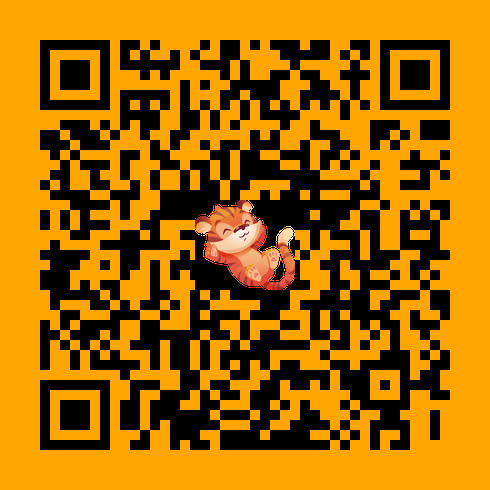
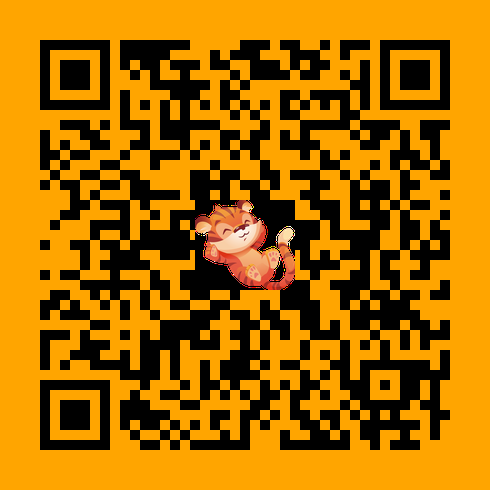
creado el anuncio y el qr

Changed region(s): [[0.0612, 0.0612, 0.9184, 0.9184], [0.8265, 0.8571, 0.8571, 0.9184]]

diff --git a/templates/visualizar_qr.html b/templates/visualizar_qr.html
@@ -41,7 +41,12 @@
                     </div>
                 </div>
         </header>
-    <div class="flex justify-center align-center w-full mt-32">
+    <div class="text-center text-xl text-white font-bold mt-10">
+        <p class="text-3xl m-1"> Conectate a la red y escanea el codigo QR para una sorpresa! </p>
+        <p>Red: talleres-bootcamp </p>
+        <p> Contraseña: talleres2023 </p>
+    </div>
+    <div class="flex justify-center align-center w-full mt-10">
         <div class="mx-auto my-auto ">
             <img src="{{imagen}}" alt="qr">
         </div>

diff --git a/app.py b/app.py
@@ -105,11 +105,11 @@ def qr_generator(url):
 
 @app.route('/generar_qr')
 def generar_qr(): 
-    ip = '192.168.100.130:8080'
-    url = 'http://'+ip+'/static/game2/index.html'
+    ip = '127.0.0.1:8080'
+    url = 'http://'+ip+'/static/game4/index.html'
     qr_generator (url)
     imagen = '/static/jaggy.png'
     return render_template('visualizar_qr.html', imagen=imagen)
 
 if __name__ == "__main__":
-    app.run(host="0.0.0.0", debug=True, port=8080) 
+    app.run(host="0.0.0.0", debug=True,port=8080) 
